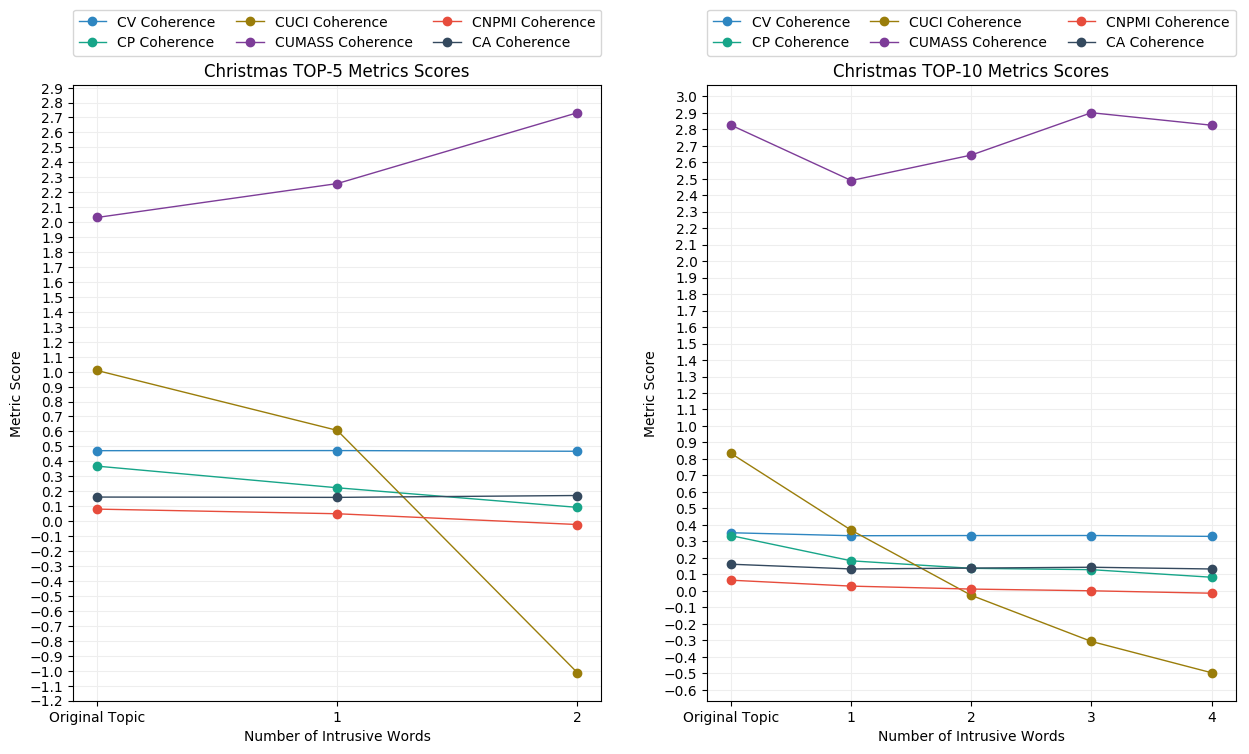
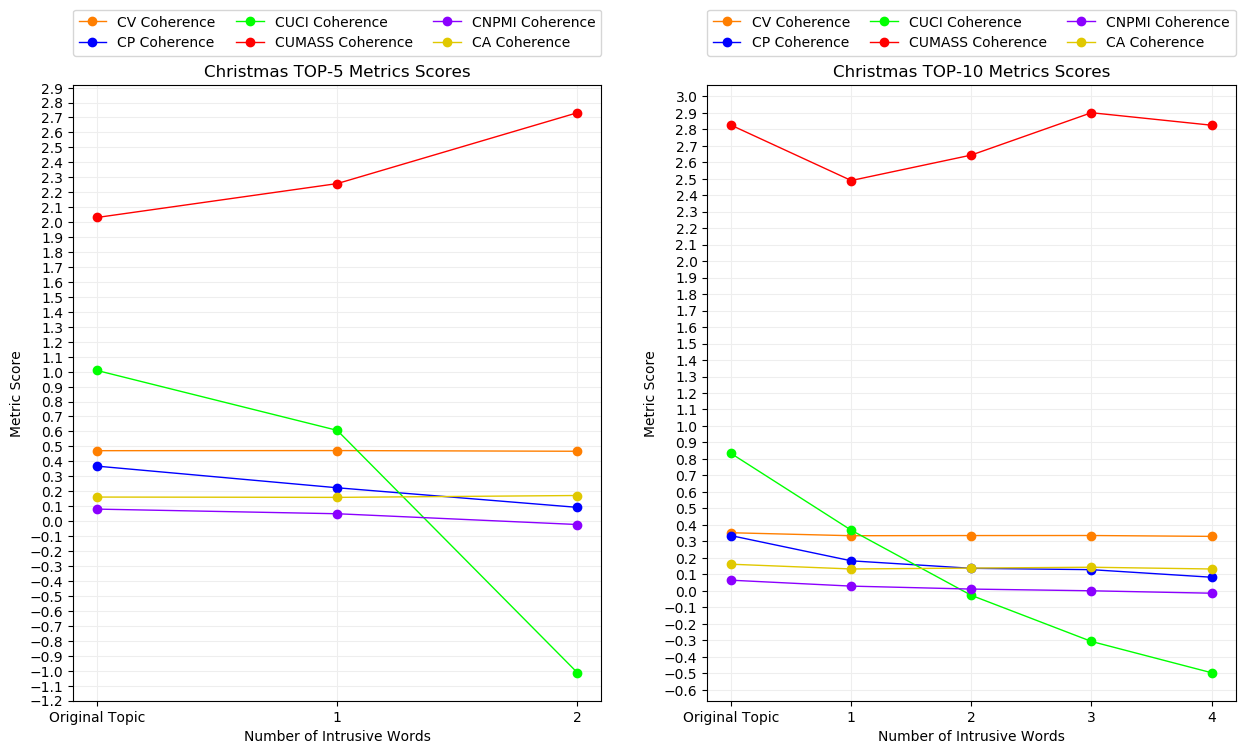
Better choice of colors.

diff --git a/graphics/plot_graphic.py b/graphics/plot_graphic.py
@@ -6,7 +6,7 @@ def plot_graphic(top5, top10, topic):
 
     # Defines the Metrics names and colors:
     METRICS = ['CV', 'CP', 'CUCI', 'CUMASS', 'CNPMI', 'CA']
-    COLORS = ['#2E86C1', '#17A589', '#9A7D0A', '#7D3C98', '#E74C3C', '#34495E']
+    COLORS = ['#FF7F00', '#0000FF', '#00FF00', '#FF0000', '#8B00FF', '#E0C800']
 
     # Creates the figure that will be ploted:
     figure = plt.figure(figsize=(15, 8))
